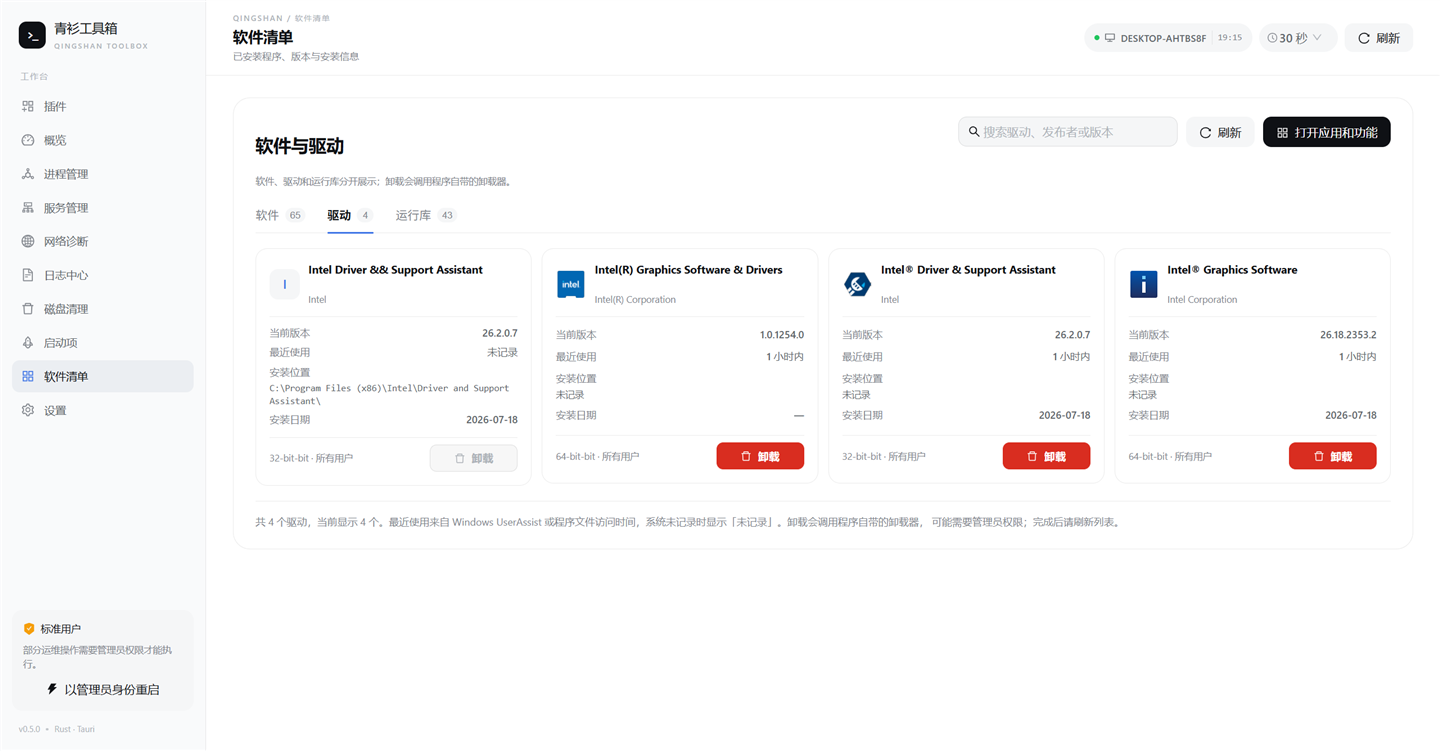
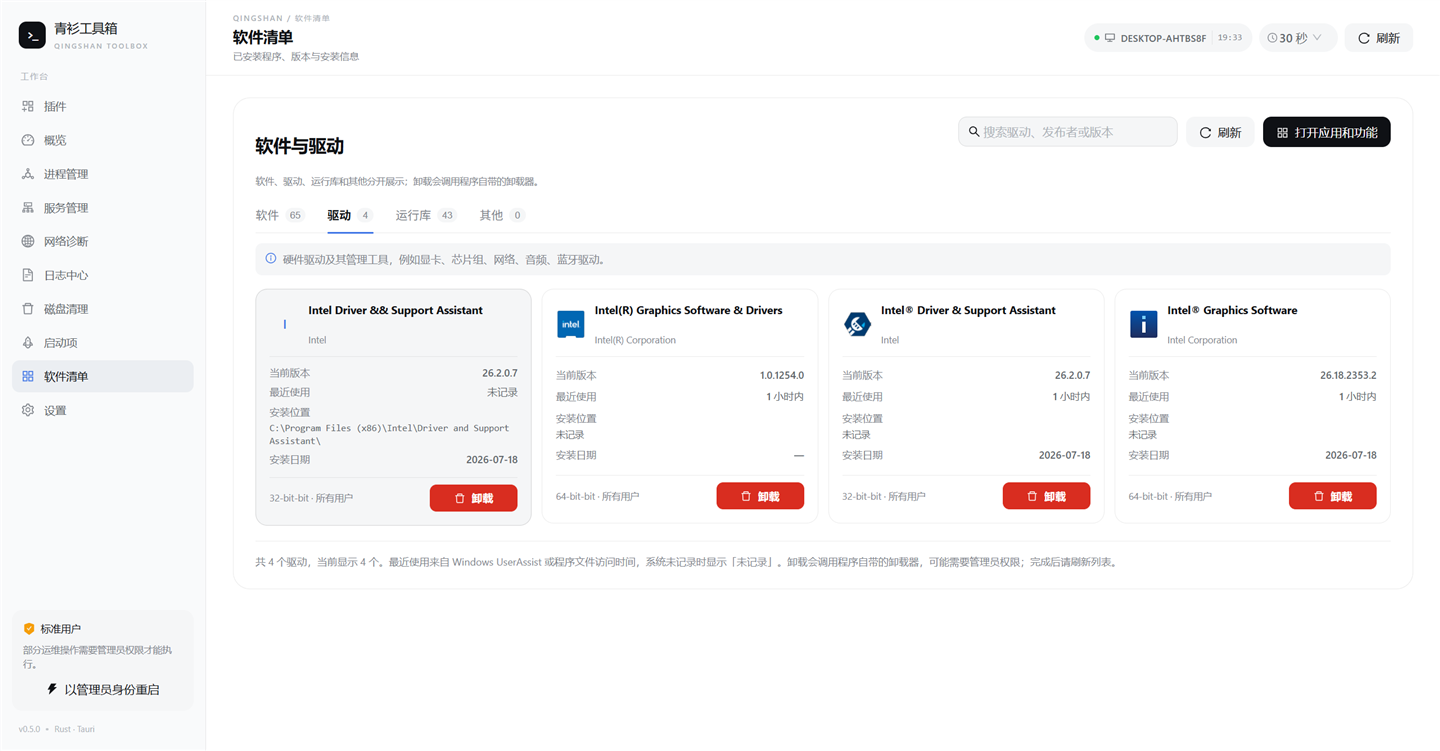
feat: add an other bucket for entries without uninstall commands

diff --git a/desktop/ui/src/pages/Software.tsx b/desktop/ui/src/pages/Software.tsx
@@ -3,12 +3,32 @@ import { Alert, App as AntApp, Button, Empty, Input, Modal, Skeleton, Tooltip } 
 import {
   AppstoreOutlined,
   DeleteOutlined,
+  InfoCircleOutlined,
   ReloadOutlined,
   SearchOutlined,
 } from "@ant-design/icons";
 import { openAppsFeatures, softwareList, uninstallSoftware } from "../api";
 import type { InstalledApp, SoftwareKind } from "../types";
 import "../maintenance.css";
+
+const KIND_META: Record<SoftwareKind, { label: string; hint: string }> = {
+  application: {
+    label: "软件",
+    hint: "可独立运行、注册表提供卸载入口的应用程序，例如浏览器、开发工具、办公软件。",
+  },
+  driver: {
+    label: "驱动",
+    hint: "硬件驱动及其管理工具，例如显卡、芯片组、网络、音频、蓝牙驱动。",
+  },
+  runtime: {
+    label: "运行库",
+    hint: "供其他程序依赖的运行环境与共享组件，例如 .NET、VC++、WebView2、Java。",
+  },
+  other: {
+    label: "其他",
+    hint: "注册表没有卸载命令的项目，无法从这里启动卸载；请使用 Windows「应用和功能」或厂商工具处理。",
+  },
+};
 
 export default function SoftwarePage() {
   const { message } = AntApp.useApp();
@@ -54,6 +74,7 @@ export default function SoftwarePage() {
   const applicationCount = apps.filter((app) => app.kind === "application").length;
   const driverCount = apps.filter((app) => app.kind === "driver").length;
   const runtimeCount = apps.filter((app) => app.kind === "runtime").length;
+  const otherCount = apps.filter((app) => app.kind === "other").length;
   const sectionApps = useMemo(
     () => apps.filter((app) => app.kind === kind),
     [apps, kind],
@@ -69,7 +90,7 @@ export default function SoftwarePage() {
       ),
     [sectionApps, keyword],
   );
-  const kindName = kind === "driver" ? "驱动" : kind === "runtime" ? "运行库" : "软件";
+  const kindName = KIND_META[kind].label;
 
   return (
     <div className="page-stack maintenance-page">
@@ -77,19 +98,13 @@ export default function SoftwarePage() {
         <div className="panel-head">
           <div>
             <h2>软件与驱动</h2>
-            <p>软件、驱动和运行库分开展示；卸载会调用程序自带的卸载器。</p>
+            <p>软件、驱动、运行库和其他分开展示；卸载会调用程序自带的卸载器。</p>
           </div>
           <div className="panel-actions">
             <Input
               allowClear
               prefix={<SearchOutlined />}
-              placeholder={
-                kind === "driver"
-                  ? "搜索驱动、发布者或版本"
-                  : kind === "runtime"
-                    ? "搜索运行库、发布者或版本"
-                    : "搜索软件、发布者或版本"
-              }
+              placeholder={`搜索${kindName}、发布者或版本`}
               value={search}
               onChange={(event) => setSearch(event.target.value)}
               style={{ width: 260 }}
@@ -116,6 +131,7 @@ export default function SoftwarePage() {
             aria-selected={kind === "application"}
             className={kind === "application" ? "software-tab active" : "software-tab"}
             onClick={() => setKind("application")}
+            title={KIND_META.application.hint}
           >
             软件 <span className="software-tab-count">{applicationCount}</span>
           </button>
@@ -125,6 +141,7 @@ export default function SoftwarePage() {
             aria-selected={kind === "driver"}
             className={kind === "driver" ? "software-tab active" : "software-tab"}
             onClick={() => setKind("driver")}
+            title={KIND_META.driver.hint}
           >
             驱动 <span className="software-tab-count">{driverCount}</span>
           </button>
@@ -134,9 +151,25 @@ export default function SoftwarePage() {
             aria-selected={kind === "runtime"}
             className={kind === "runtime" ? "software-tab active" : "software-tab"}
             onClick={() => setKind("runtime")}
+            title={KIND_META.runtime.hint}
           >
             运行库 <span className="software-tab-count">{runtimeCount}</span>
           </button>
+          <button
+            type="button"
+            role="tab"
+            aria-selected={kind === "other"}
+            className={kind === "other" ? "software-tab active" : "software-tab"}
+            onClick={() => setKind("other")}
+            title={KIND_META.other.hint}
+          >
+            其他 <span className="software-tab-count">{otherCount}</span>
+          </button>
+        </div>
+
+        <div className="software-kind-hint">
+          <InfoCircleOutlined />
+          <span>{KIND_META[kind].hint}</span>
         </div>
 
         {loading ? (
@@ -187,21 +220,26 @@ export default function SoftwarePage() {
                     {app.registryView || "—"}-bit ·{" "}
                     {app.scope === "user" ? "当前用户" : "所有用户"}
                   </span>
-                  <Tooltip title={app.uninstallString ? "启动程序自带卸载器" : "系统未提供卸载命令"}>
-                    <span>
-                      <Button
-                        size="middle"
-                        type="primary"
-                        danger
-                        icon={<DeleteOutlined />}
-                        disabled={!app.uninstallString}
-                        className="software-uninstall"
-                        onClick={() => setUninstallTarget(app)}
-                      >
-                        卸载
-                      </Button>
-                    </span>
-                  </Tooltip>
+                  {app.uninstallString ? (
+                    <Tooltip title="启动程序自带卸载器">
+                      <span>
+                        <Button
+                          size="middle"
+                          type="primary"
+                          danger
+                          icon={<DeleteOutlined />}
+                          className="software-uninstall"
+                          onClick={() => setUninstallTarget(app)}
+                        >
+                          卸载
+                        </Button>
+                      </span>
+                    </Tooltip>
+                  ) : (
+                    <Tooltip title="请使用 Windows「应用和功能」或厂商工具">
+                      <span className="software-no-uninstall">无卸载命令</span>
+                    </Tooltip>
+                  )}
                 </div>
               </article>
             ))}
@@ -209,9 +247,9 @@ export default function SoftwarePage() {
         )}
 
         <div className="maint-footnote">
-          共 {sectionApps.length} 个{kindName}，当前显示 {filtered.length} 个。最近使用来自 Windows
-          UserAssist 或程序文件访问时间，系统未记录时显示「未记录」。卸载会调用程序自带的卸载器，
-          可能需要管理员权限；完成后请刷新列表。
+          {kind === "other"
+            ? `共 ${sectionApps.length} 个其他项目，当前显示 ${filtered.length} 个。这些项目未提供卸载命令，请使用 Windows「应用和功能」或厂商工具处理。`
+            : `共 ${sectionApps.length} 个${kindName}，当前显示 ${filtered.length} 个。最近使用来自 Windows UserAssist 或程序文件访问时间，系统未记录时显示「未记录」。卸载会调用程序自带的卸载器，可能需要管理员权限；完成后请刷新列表。`}
         </div>
       </section>
 

diff --git a/desktop/ui/src/mock.ts b/desktop/ui/src/mock.ts
@@ -765,6 +765,8 @@ let softwareSeed: InstalledApp[] = [
   { id: "intel-dsa", kind: "driver", name: "Intel(R) Driver & Support Assistant", version: "25.2.0.6", publisher: "Intel Corporation", installDate: "2026-08-30", installLocation: "C:\\Program Files\\Intel\\Intel Driver && Support Assistant", uninstallString: "MsiExec.exe /X{2C633E0E-1F95-42CC-95D8-63C12DD9672F}", scope: "machine", registryView: "64-bit" },
   { id: "dotnet-runtime", kind: "runtime", name: "Microsoft .NET Runtime - 10.0.7 (x64)", version: "10.0.7", publisher: "Microsoft Corporation", installDate: "2026-09-10", installLocation: "C:\\Program Files\\dotnet\\shared\\Microsoft.NETCore.App", uninstallString: "C:\\Program Files\\dotnet\\shared\\Microsoft.NETCore.App\\10.0.7\\dotnet-runtime.exe uninstall", scope: "machine", registryView: "64-bit" },
   { id: "vcpp-redist", kind: "runtime", name: "Microsoft Visual C++ 2015-2022 Redistributable (x64) - 14.44.35211", version: "14.44.35211", publisher: "Microsoft Corporation", installDate: "2026-07-12", installLocation: "", uninstallString: "MsiExec.exe /X{9A2B3C4D-5E6F-7A8B-9C0D-1E2F3A4B5C6D}", scope: "machine", registryView: "64-bit" },
+  { id: "other-runtime", kind: "other", name: "Microsoft Windows Desktop Runtime - 10.0.7 (x64)", version: "10.0.7", publisher: "Microsoft Corporation", installDate: "2026-09-10", installLocation: "C:\\Program Files\\dotnet\\shared\\Microsoft.WindowsDesktop.App", uninstallString: "", scope: "machine", registryView: "64-bit" },
+  { id: "other-oem", kind: "other", name: "OEM 系统组件", version: "1.0.0", publisher: "设备制造商", installDate: "2026-06-01", installLocation: "C:\\Program Files\\OEM", uninstallString: "", scope: "machine", registryView: "64-bit" },
 ];
 
 export function mockInstalledApps(): InstalledApp[] {

diff --git a/desktop/ui/src/maintenance.css b/desktop/ui/src/maintenance.css
@@ -260,6 +260,33 @@
   text-align: center;
 }
 
+.software-kind-hint {
+  display: flex;
+  gap: 8px;
+  align-items: flex-start;
+  margin: -6px 0 16px;
+  padding: 9px 12px;
+  border-radius: 8px;
+  background: var(--panel-muted);
+  color: var(--muted);
+  font-size: 12.5px;
+  line-height: 1.55;
+}
+
+.software-kind-hint .anticon {
+  margin-top: 2px;
+  color: var(--accent);
+}
+
+.software-no-uninstall {
+  padding: 4px 8px;
+  border: 1px dashed var(--border);
+  border-radius: 6px;
+  color: var(--muted);
+  font-size: 11.5px;
+  white-space: nowrap;
+}
+
 /* Software inventory: four compact cards per row on desktop. */
 .software-grid {
   display: grid;

diff --git a/desktop/ui/src/types.ts b/desktop/ui/src/types.ts
@@ -270,7 +270,7 @@ export interface ScheduledTask {
 }
 
 export type SoftwareScope = "user" | "machine";
-export type SoftwareKind = "application" | "driver" | "runtime";
+export type SoftwareKind = "application" | "driver" | "runtime" | "other";
 
 export interface InstalledApp {
   id: string;

diff --git a/desktop/crates/devops-platform/src/win/software.rs b/desktop/crates/devops-platform/src/win/software.rs
@@ -180,7 +180,7 @@ fn read_app(
     let display_icon = text("DisplayIcon");
     let install_location = text("InstallLocation");
     let uninstall_string = text("UninstallString");
-    let kind = classify_kind(&name, &uninstall_string);
+    let kind = effective_kind(&name, &uninstall_string);
     Some(InstalledApp {
         id: format!("{scope_label}:{view}:{key_name}"),
         kind,
@@ -195,6 +195,17 @@ fn read_app(
         icon: crate::win::icons::icon_data_url(&display_icon),
         last_used: last_used_for(&display_icon, &install_location, last_used),
     })
+}
+
+/// Entries without an uninstall command are separated from the three main
+/// categories: they cannot be managed from here and should not be mixed with
+/// applications, drivers, or runtimes.
+fn effective_kind(name: &str, uninstall_string: &str) -> SoftwareKind {
+    if uninstall_string.trim().is_empty() {
+        SoftwareKind::Other
+    } else {
+        classify_kind(name, uninstall_string)
+    }
 }
 
 /// Drivers rarely expose a stable registry marker. Prefer explicit driver
@@ -370,7 +381,7 @@ fn rot13(value: &str) -> String {
 
 #[cfg(test)]
 mod tests {
-    use super::classify_kind;
+    use super::{classify_kind, effective_kind};
     use devops_core::SoftwareKind;
 
     #[test]
@@ -410,6 +421,21 @@ mod tests {
         assert_eq!(
             classify_kind("Microsoft Edge WebView2 Runtime", ""),
             SoftwareKind::Runtime
+        );
+        assert_eq!(
+            effective_kind("Microsoft .NET Runtime - 10.0.7 (x64)", ""),
+            SoftwareKind::Other
+        );
+        assert_eq!(
+            effective_kind(
+                "Microsoft .NET Runtime - 10.0.7 (x64)",
+                "C:\\Program Files\\dotnet\\uninstall.exe"
+            ),
+            SoftwareKind::Runtime
+        );
+        assert_eq!(
+            effective_kind("Intel(R) Graphics Software & Drivers", ""),
+            SoftwareKind::Other
         );
     }
 }

diff --git a/desktop/crates/devops-platform/src/win/registry.rs b/desktop/crates/devops-platform/src/win/registry.rs
@@ -8,8 +8,8 @@ use windows::Win32::Foundation::{
 };
 use windows::Win32::System::Registry::{
     RegCloseKey, RegCreateKeyExW, RegEnumKeyExW, RegEnumValueW, RegOpenKeyExW, RegQueryValueExW,
-    RegSetValueExW, HKEY, KEY_READ, KEY_WRITE, REG_BINARY, REG_OPTION_NON_VOLATILE, REG_SZ,
-    REG_VALUE_TYPE,
+    RegSetValueExW, HKEY, KEY_READ, KEY_WRITE, REG_BINARY, REG_EXPAND_SZ, REG_OPTION_NON_VOLATILE,
+    REG_SZ, REG_VALUE_TYPE,
 };
 
 fn wide(value: &str) -> Vec<u16> {
@@ -107,7 +107,7 @@ pub fn read_string(key: HKEY, name: &str) -> OpsResult<Option<String>> {
         return Err(status_error("读取注册表值", status));
     }
     data.truncate(size as usize);
-    if kind == REG_SZ {
+    if kind == REG_SZ || kind == REG_EXPAND_SZ {
         Ok(Some(decode_utf16(&data)))
     } else {
         Ok(None)

diff --git a/desktop/crates/devops-core/src/software.rs b/desktop/crates/devops-core/src/software.rs
@@ -13,6 +13,7 @@ pub enum SoftwareKind {
     Application,
     Driver,
     Runtime,
+    Other,
 }
 
 #[derive(Debug, Clone, Serialize, Deserialize)]

diff --git a/README.md b/README.md
@@ -28,11 +28,13 @@
 
 ![启动项与计划任务](docs/images/startup-page.png)
 
-![软件清单：软件、驱动、运行库分开](docs/images/software-page.png)
+![软件清单：软件、驱动、运行库、其他](docs/images/software-page.png)
 
 ![驱动列表](docs/images/software-drivers.png)
 
 ![运行库列表](docs/images/software-runtimes.png)
+
+![其他：无卸载命令的项目（当前机器为 0）](docs/images/software-other.png)
 
 更多界面：[深色主题](docs/images/overview-dark.png) · [进程管理](docs/images/processes.png) · [服务管理](docs/images/services.png) · [网络诊断](docs/images/network.png) · [设置](docs/images/settings.png) · [插件详情](docs/images/plugins-detail.png) · [添加插件](docs/images/plugins-add.png)
 
@@ -50,7 +52,7 @@
 | 磁盘清理 | 临时文件、浏览器缓存、崩溃转储、Windows Update 缓存、回收站扫描与清理 | 固定白名单，按 id 清理；不触碰个人文档；系统目录需要管理员权限 |
 | 启动项 | Run 注册表与启动文件夹、启用状态、启停 | 通过 StartupApproved 写回；系统级项目需要管理员权限 |
 | 计划任务 | 任务列表、状态、启停 | 优先读取任务计划服务，受限环境回退任务文件；系统任务需管理员权限 |
-| 软件清单 | 软件、驱动、运行库分成三个 Tab；四列紧凑卡片展示，优先显示真实 Windows 图标，并列出当前版本、最近使用、安装位置；每张卡片可启动程序自带卸载器 | 驱动/运行库按注册表名称与安装器识别，可能有个别归类偏差；卸载需管理员权限，青衫工具箱不直接删除文件 |
+| 软件清单 | 软件、驱动、运行库、其他四个 Tab；四列紧凑卡片展示，优先显示真实 Windows 图标，并列出当前版本、最近使用、安装位置；注册表无卸载命令的项目归入「其他」，有卸载命令的卡片可启动程序自带卸载器 | 驱动/运行库按注册表名称与安装器识别，可能有个别归类偏差；卸载需管理员权限，青衫工具箱不直接删除文件 |
 | 插件 | 独立「插件」页：已安装 / 发现、启停、搜索筛选、添加本地插件、官方可选包安装、详情与移除 | 声明式 `plugin.json`，不执行第三方代码；插件页结构参考 DSH 插件管理 |
 | 权限 | 检测 UAC 提权状态、以管理员身份重启 | 通过 `ShellExecuteW(runas)` 触发 |
 | 体验 | 深色/浅色主题、跟随系统、DSH 同源视觉、WebView2 | 主题记忆在本机，支持 `?theme=dark` 预览 |

diff --git a/docs/roadmap.md b/docs/roadmap.md
@@ -23,7 +23,7 @@
 - [ ] 日志中心扩展：应用日志文件、更多通道与实时跟随
 - [x] 磁盘清理：临时文件、回收站、浏览器缓存、Windows Update 缓存，带预估与白名单
 - [x] 启动项与计划任务：查看、禁用/启用（计划任务「下次运行时间」待补）
-- [x] 软件清单：软件、驱动、运行库分成三个 Tab，四列紧凑卡片展示已安装程序，优先显示真实 Windows 图标，含当前版本、最近使用、安装位置；每张卡片可启动程序自带卸载器（系统级需要管理员权限）
+- [x] 软件清单：软件、驱动、运行库、其他四个 Tab，四列紧凑卡片展示已安装程序，优先显示真实 Windows 图标，含当前版本、最近使用、安装位置；注册表无卸载命令的项目归入「其他」，有卸载命令的卡片可启动程序自带卸载器（系统级需要管理员权限）
 
 优先级 P1：
 
